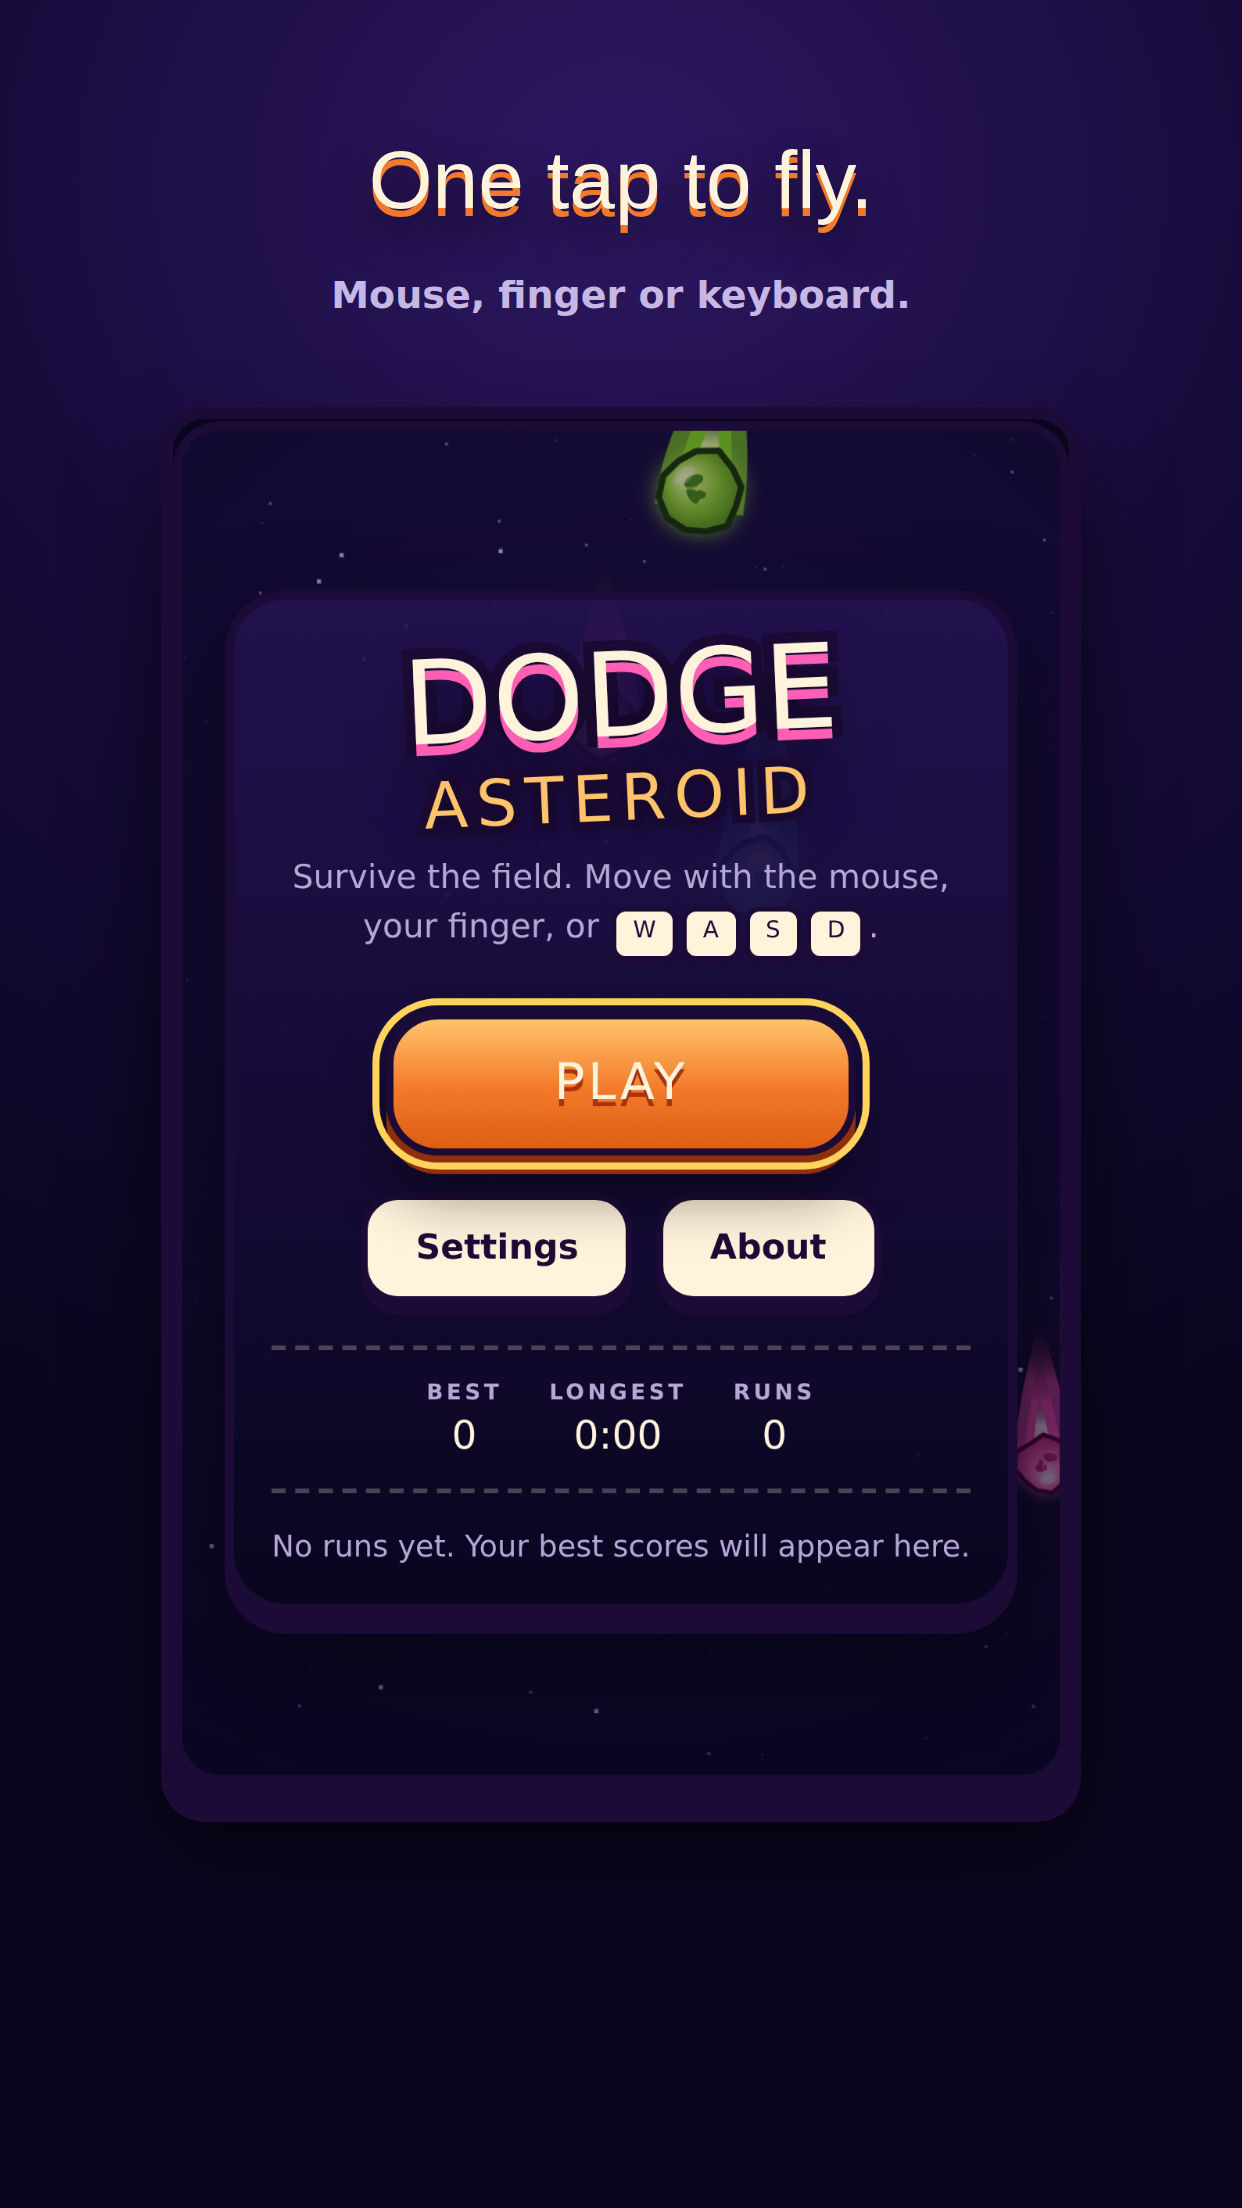
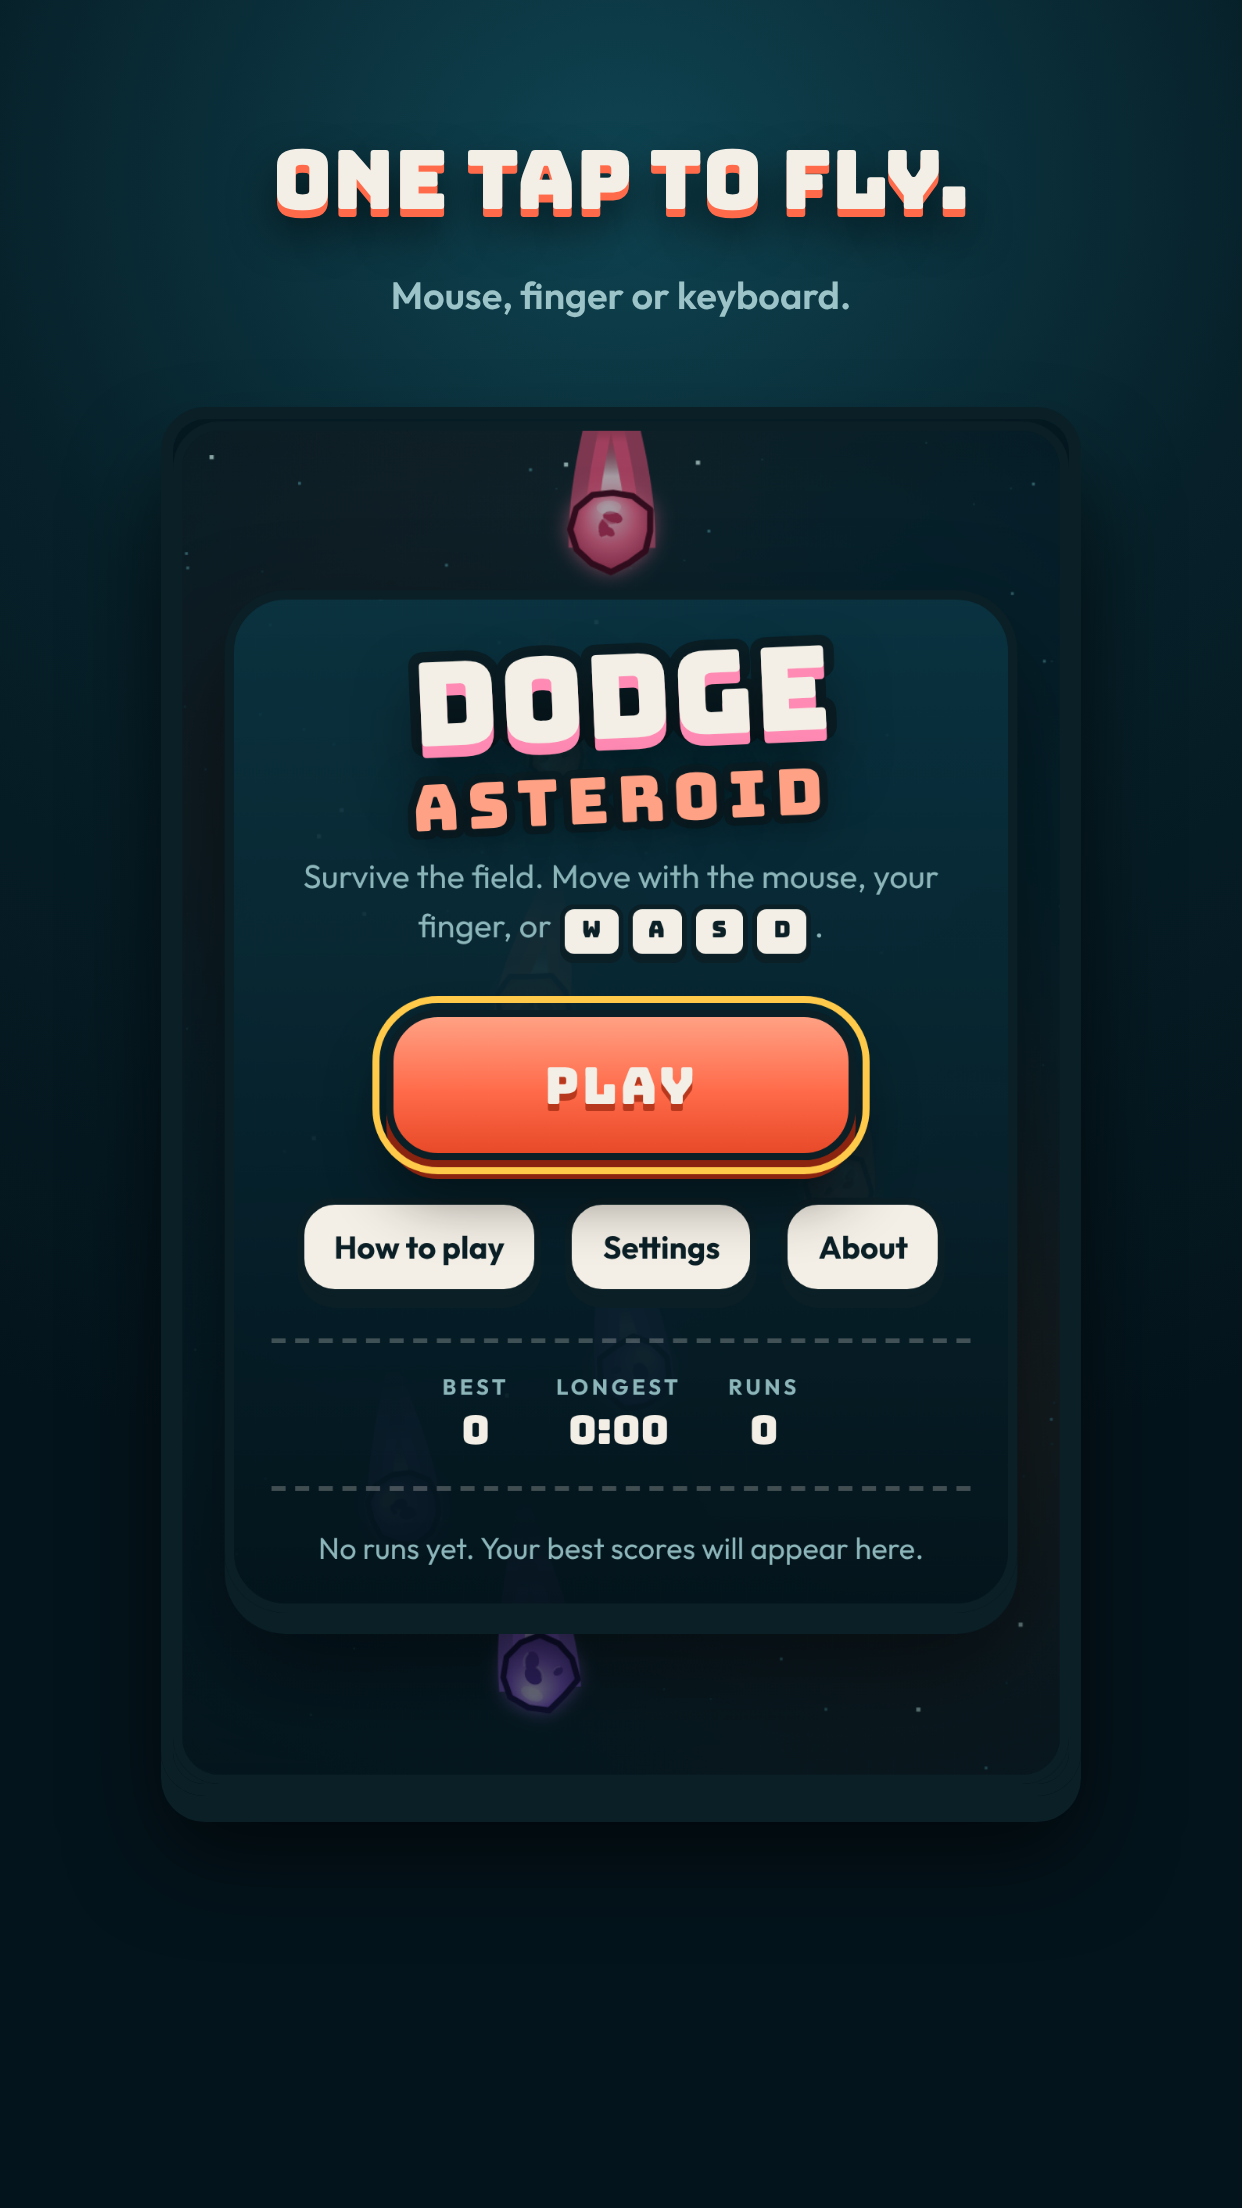
docs: add a link-preview image and refresh the media for the redesign
Portfolio links, LinkedIn and X showed a blank card: the page declared a
large-image card but had no og:image. npm run media now also composes a
1200x630 preview (public/og.jpg, 59 KB) from a real play-field shot, and
the social tags point at it, with copy that matches the current game.

The README screenshots, demo GIF and store cards are regenerated in the
deep-sea palette. The capture now retries until it records a clean
stretch of flying, and takes the gameplay still only while the ship is
alive: with the new dying phase, the old fallback could catch the field
after the ship had gone, or half a GIF of explosion and countdown.

An end-to-end spec checks the build ships the image the tags name.

diff --git a/index.html b/index.html
@@ -15,10 +15,19 @@
     <meta property="og:title" content="Dodge Asteroid" />
     <meta
       property="og:description"
-      content="A neon arcade dodging game built with TypeScript and Canvas 2D."
+      content="A sticker-arcade dodging game: skim rocks for combos, chase star shards and outrun telegraphed comets through six sectors. Plays in the browser on desktop or phone."
     />
     <meta property="og:url" content="https://mattathiasa.github.io/Dodge-Asteroid/" />
+    <!-- Crawlers need an absolute URL here; the image is built by npm run media. -->
+    <meta property="og:image" content="https://mattathiasa.github.io/Dodge-Asteroid/og.jpg" />
+    <meta property="og:image:width" content="1200" />
+    <meta property="og:image:height" content="630" />
+    <meta
+      property="og:image:alt"
+      content="Dodge Asteroid: a mint ship weaving between glowing rocks on a deep teal field"
+    />
     <meta name="twitter:card" content="summary_large_image" />
+    <meta name="twitter:image" content="https://mattathiasa.github.io/Dodge-Asteroid/og.jpg" />
 
     <link rel="preconnect" href="https://fonts.googleapis.com" />
     <link rel="preconnect" href="https://fonts.gstatic.com" crossorigin />

diff --git a/tests/e2e/game.spec.ts b/tests/e2e/game.spec.ts
@@ -72,6 +72,16 @@ test('boots to the menu with a sized canvas', async ({ page }) => {
   expect((await snapshot(page)).phase).toBe('menu');
 });
 
+test('ships the link-preview image its social tags point to', async ({ page }) => {
+  const image = await page.locator('meta[property="og:image"]').getAttribute('content');
+  expect(image).toMatch(/\/og\.jpg$/);
+
+  // The tag holds the absolute Pages URL; the same file must be in the build.
+  const response = await page.request.get('/og.jpg');
+  expect(response.ok()).toBe(true);
+  expect(response.headers()['content-type']).toContain('image/jpeg');
+});
+
 test('starts a run and accumulates score over time', async ({ page }) => {
   await startRun(page);
   await expect

diff --git a/README.md b/README.md
@@ -176,7 +176,7 @@ To regenerate the media in this README:
 
 ```bash
 npm run build && npm run preview -- --port 4173 --strictPort &
-npm run media    # screenshots, the demo GIF, and the store cards
+npm run media    # screenshots, the demo GIF, the store cards and public/og.jpg
 npm run decks    # the two slide decks in docs/decks/
 ```
 
@@ -206,7 +206,7 @@ to avoid:
 | The ship rendered a full body-width away from the cursor                                                                                                                       | One tested coordinate mapping                                       |
 | Mouse only, with no viewport meta tag, so it could not be played on a phone                                                                                                    | Mouse, touch and keyboard                                           |
 | 86 KB of vendored jQuery carrying three CVEs                                                                                                                                   | No runtime dependencies                                             |
-| No tests, no CI, no licence                                                                                                                                                    | 206 unit tests, 16 e2e specs, CI on every push                      |
+| No tests, no CI, no licence                                                                                                                                                    | 206 unit tests, 17 e2e specs, CI on every push                      |
 
 ## Licence
 
